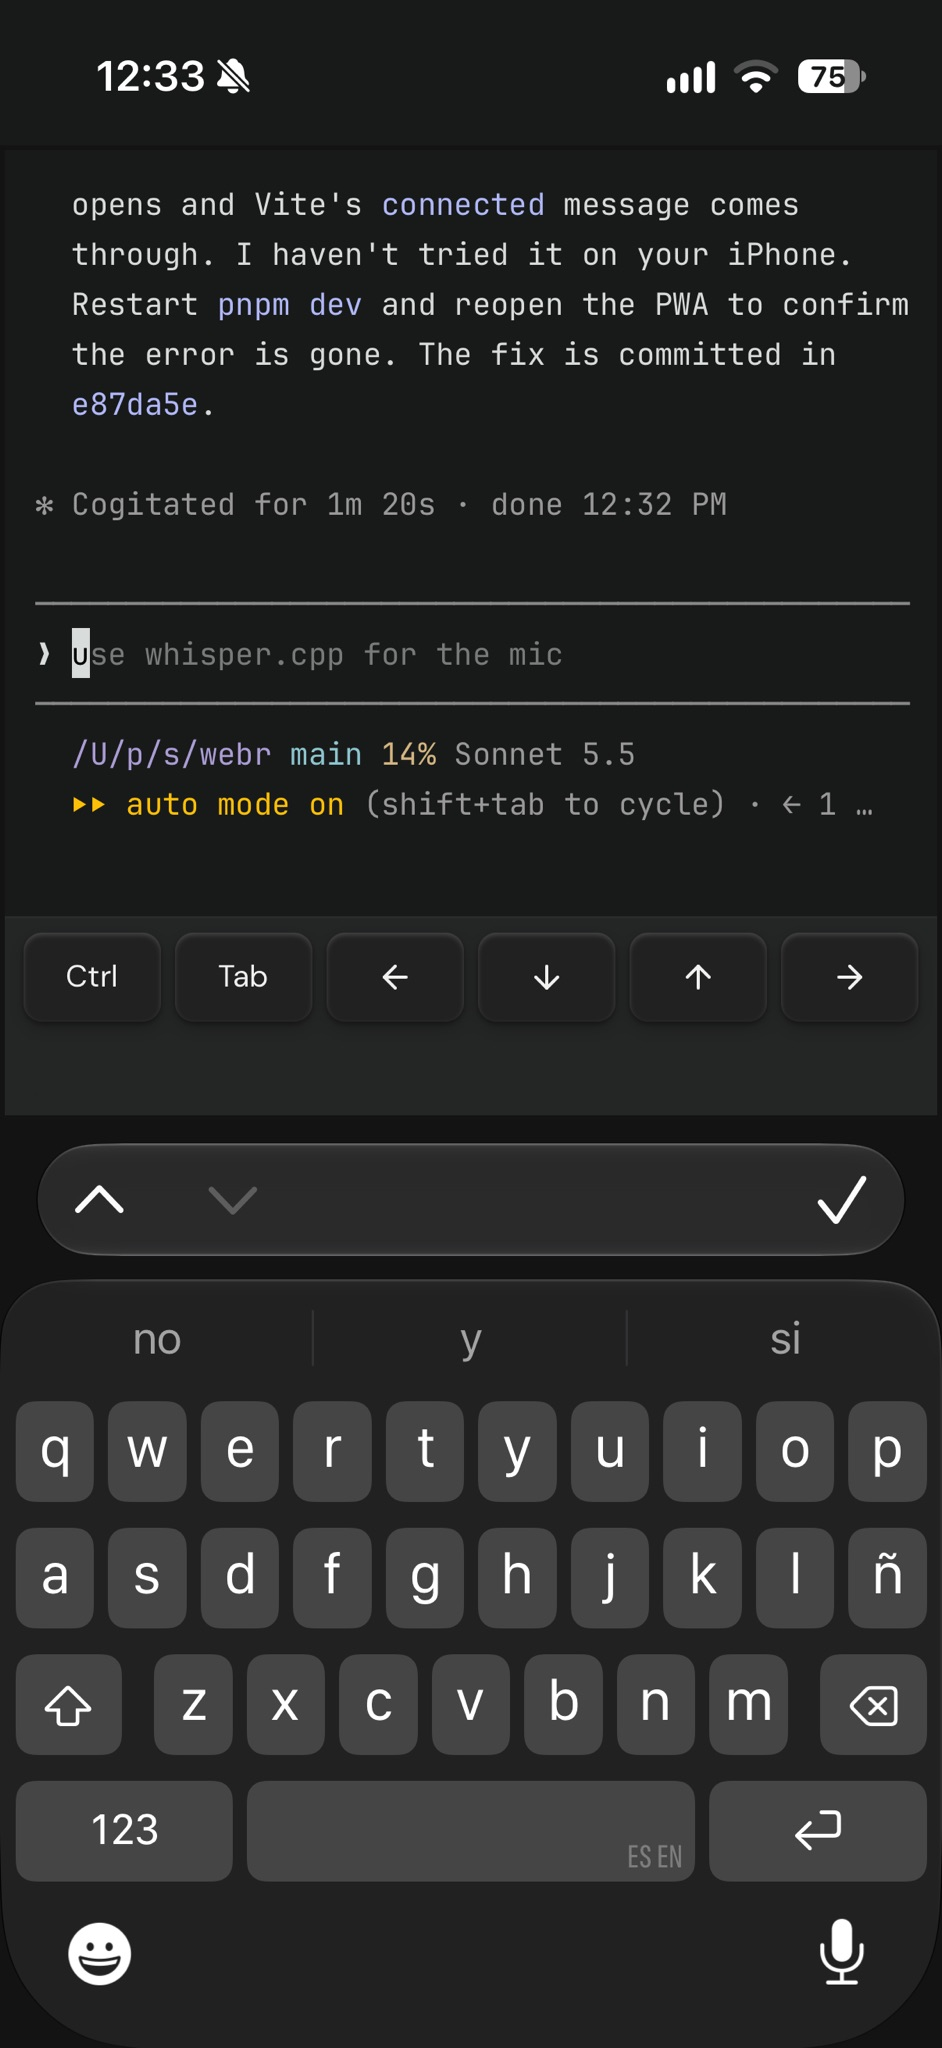
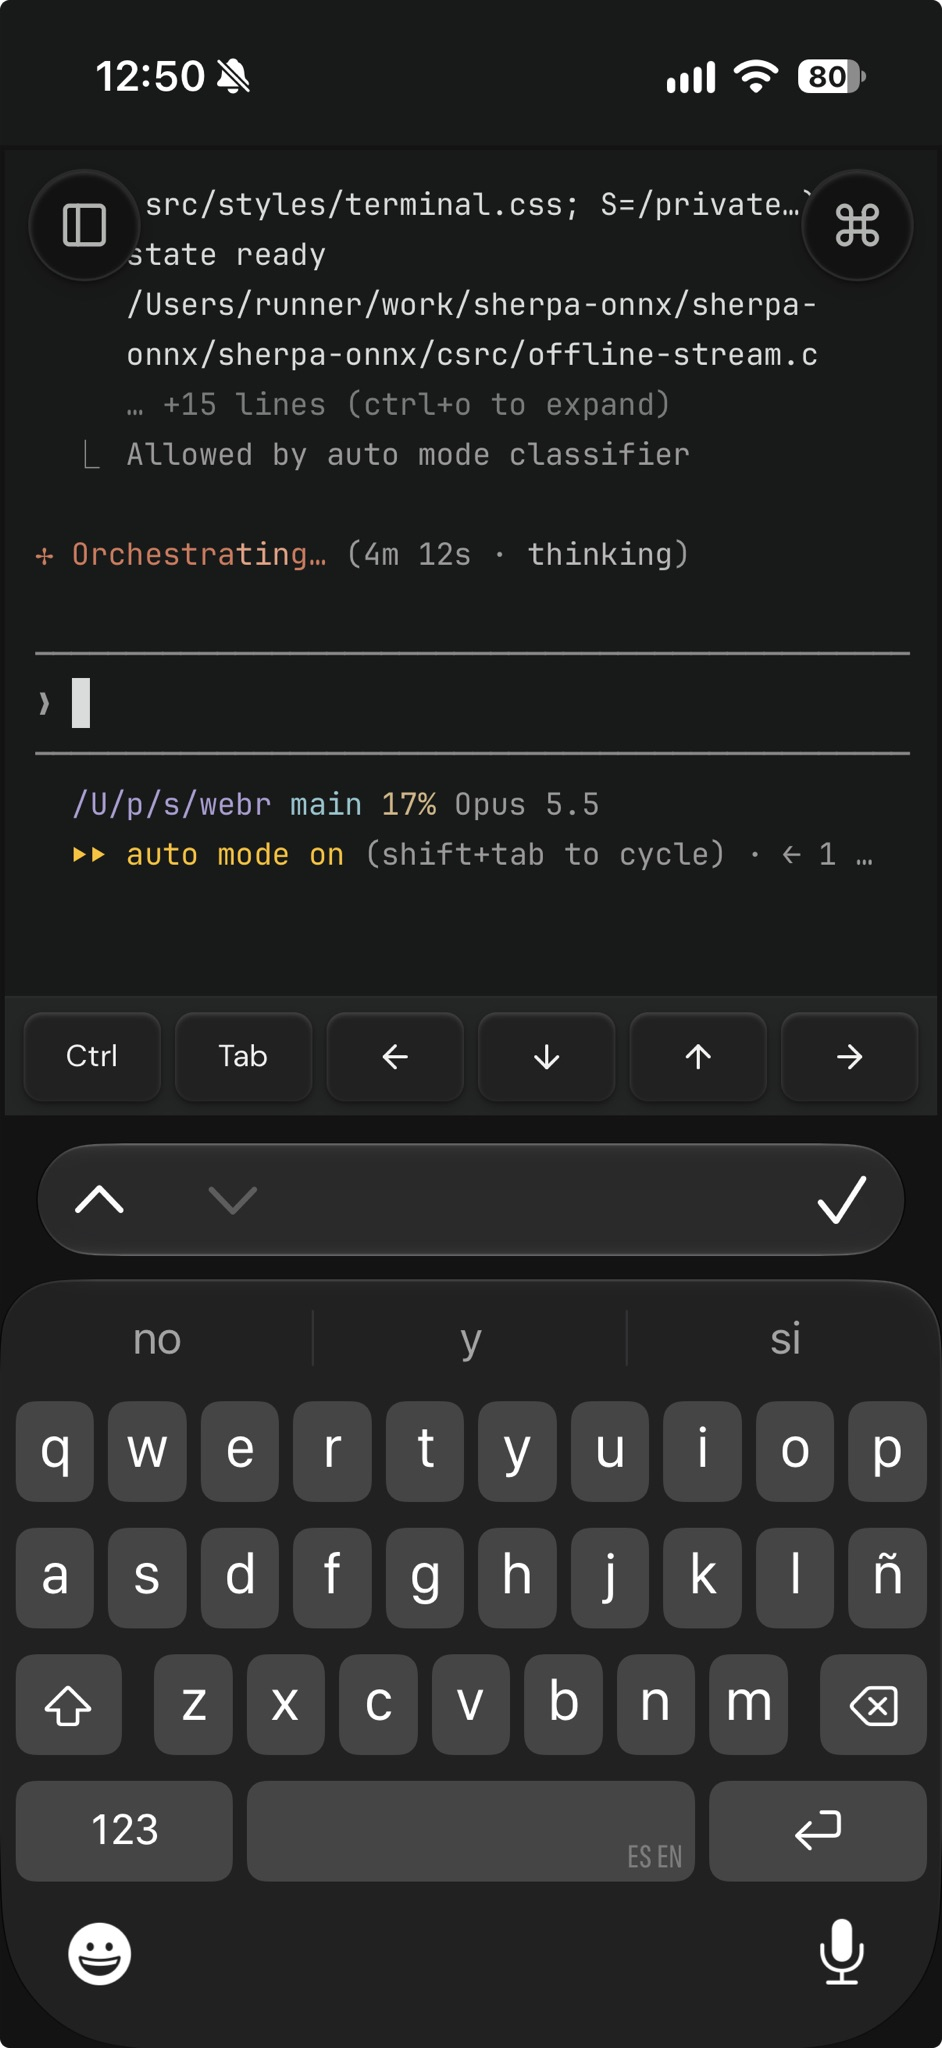
more readme screenshots

diff --git a/README.md b/README.md
@@ -28,12 +28,13 @@ Zero config, PWA, with Tailscale automation out of the box.
 
 <table>
   <tr>
-    <td colspan="2"><img src="./assets/brand/tailscale.jpg" /></td>
+    <td colspan="3"><img src="./assets/brand/tailscale.jpg" /></td>
   </tr>
   <tr>
-    <td colspan="2"><img src="./assets/brand/dock.jpg" /></td>
+    <td colspan="3"><img src="./assets/brand/dock.jpg" /></td>
   </tr>
   <tr>
+    <td><img src="./assets/brand/sidebar.jpg" /></td>
     <td><img src="./assets/brand/typing.jpg" /></td>
     <td><img src="./assets/brand/cmdk.jpg" /></td>
   </tr>
